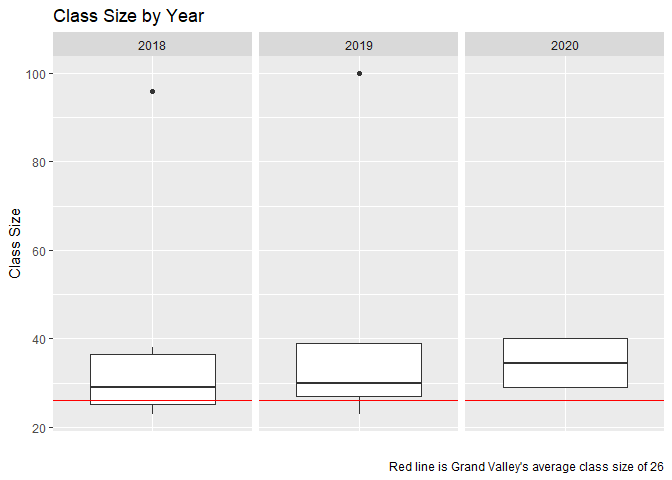
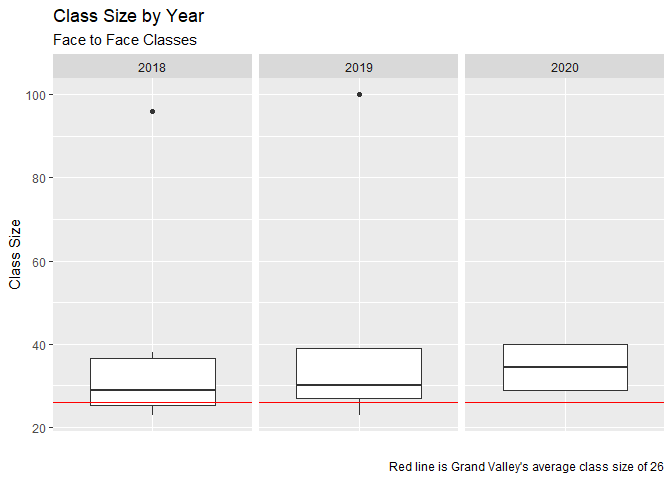
new graphs

diff --git a/corona-college.md b/corona-college.md
@@ -7,7 +7,6 @@ Jason Smith
 library(readxl)
 library(tidyverse)
 class_sizes <- read_excel("data/class_sizes.xlsx")
-h <- 26
 ```
 
 ``` r
@@ -43,12 +42,48 @@ in_person %>%
   theme(axis.ticks.x = element_blank())+
   labs(
     title = "Class Size by Year",
+    subtitle = "Face to Face Classes",
     x = "",
     y = "Class Size",
     caption = "Red line is Grand Valley's average class size of 26")
 ```
 
 ![](corona-college_files/figure-gfm/unnamed-chunk-4-1.png)<!-- -->
+
+``` r
+in_person %>% 
+  group_by(semester) %>% 
+  summarise(
+    n = n(),
+    sd = sd(size),
+    min = min(size),
+    median = median(size),
+    max = max(size)
+  )
+```
+
+    ## # A tibble: 4 x 6
+    ##   semester      n    sd   min median   max
+    ##   <chr>     <int> <dbl> <dbl>  <dbl> <dbl>
+    ## 1 Fall_18       6 28.0     23   29      96
+    ## 2 Fall_19       5  5.61    27   30      39
+    ## 3 Winter_19     4 36.2     23   32     100
+    ## 4 Winter_20     4  6.35    29   34.5    40
+
+``` r
+in_person %>% 
+  ggplot(aes(x = semester, y = size))+
+  geom_boxplot()+
+  geom_hline(yintercept = 26, color = "red")+
+  labs(
+    title = "Class Size by Semester",
+    subtitle = "Face to Face Classes",
+    x = "Semester",
+    y = "Class Size",
+    caption = "Red line is Grand Valley's average class size of 26")
+```
+
+![](corona-college_files/figure-gfm/unnamed-chunk-6-1.png)<!-- -->
 
 ``` r
 in_person %>% 
@@ -80,9 +115,10 @@ in_person %>%
   geom_hline(yintercept = 26, color = "red")+
   labs(
     title = "Class Size by Department",
+    subtitle = "Face to Face Classes",
     x = "Department",
     y = "Class Size",
     caption = "Red line is Grand Valley's average class size of 26")
 ```
 
-![](corona-college_files/figure-gfm/unnamed-chunk-6-1.png)<!-- -->
+![](corona-college_files/figure-gfm/unnamed-chunk-8-1.png)<!-- -->
